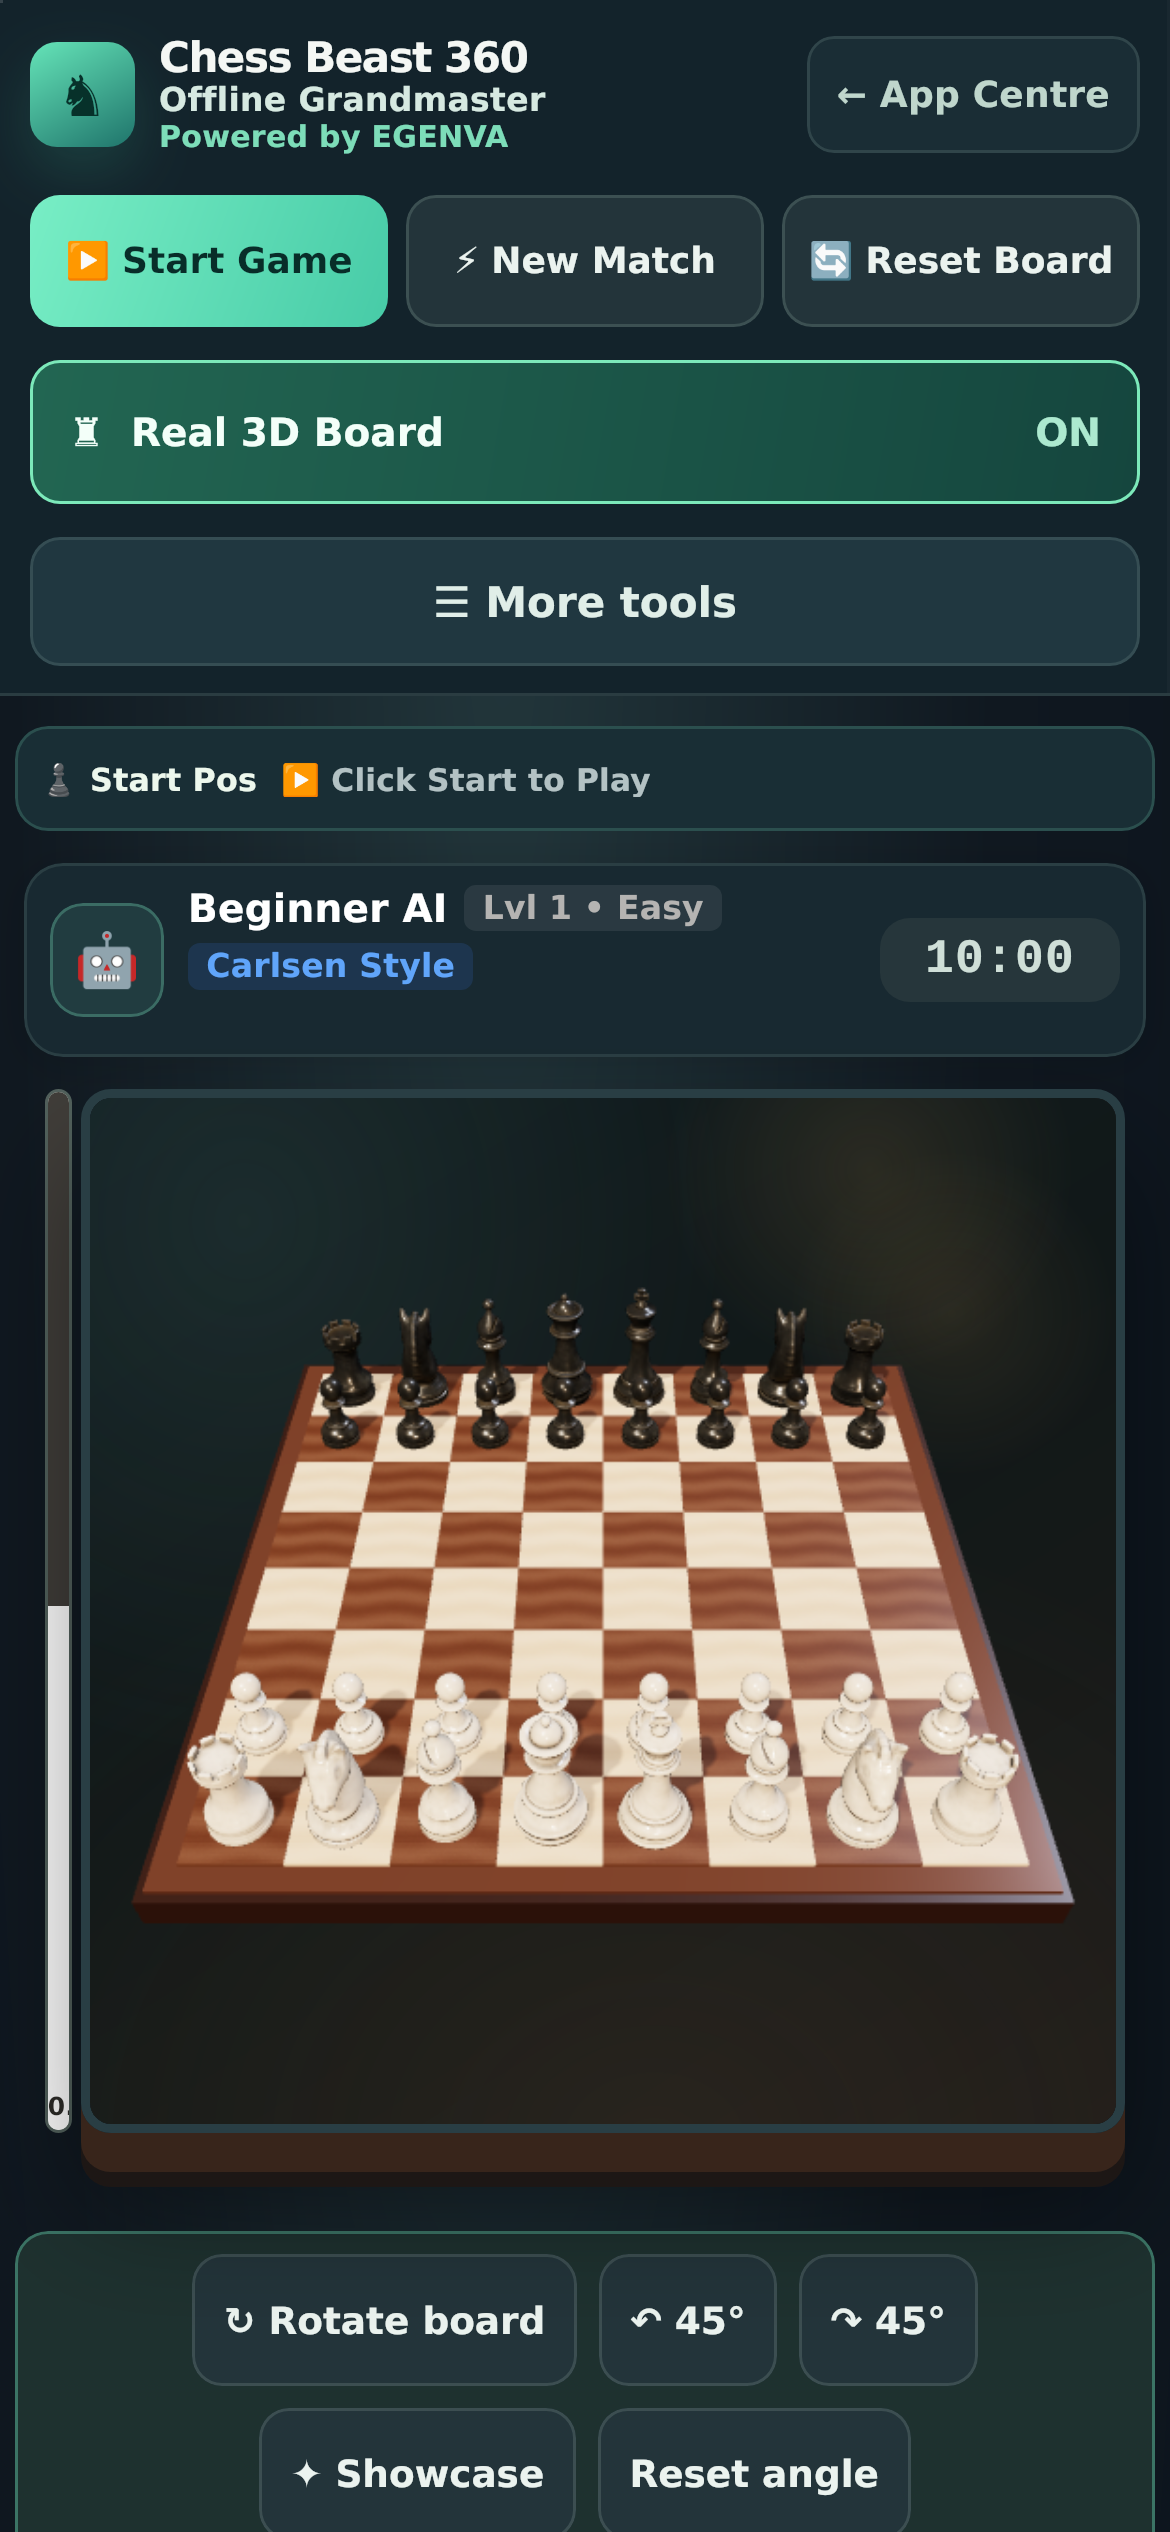
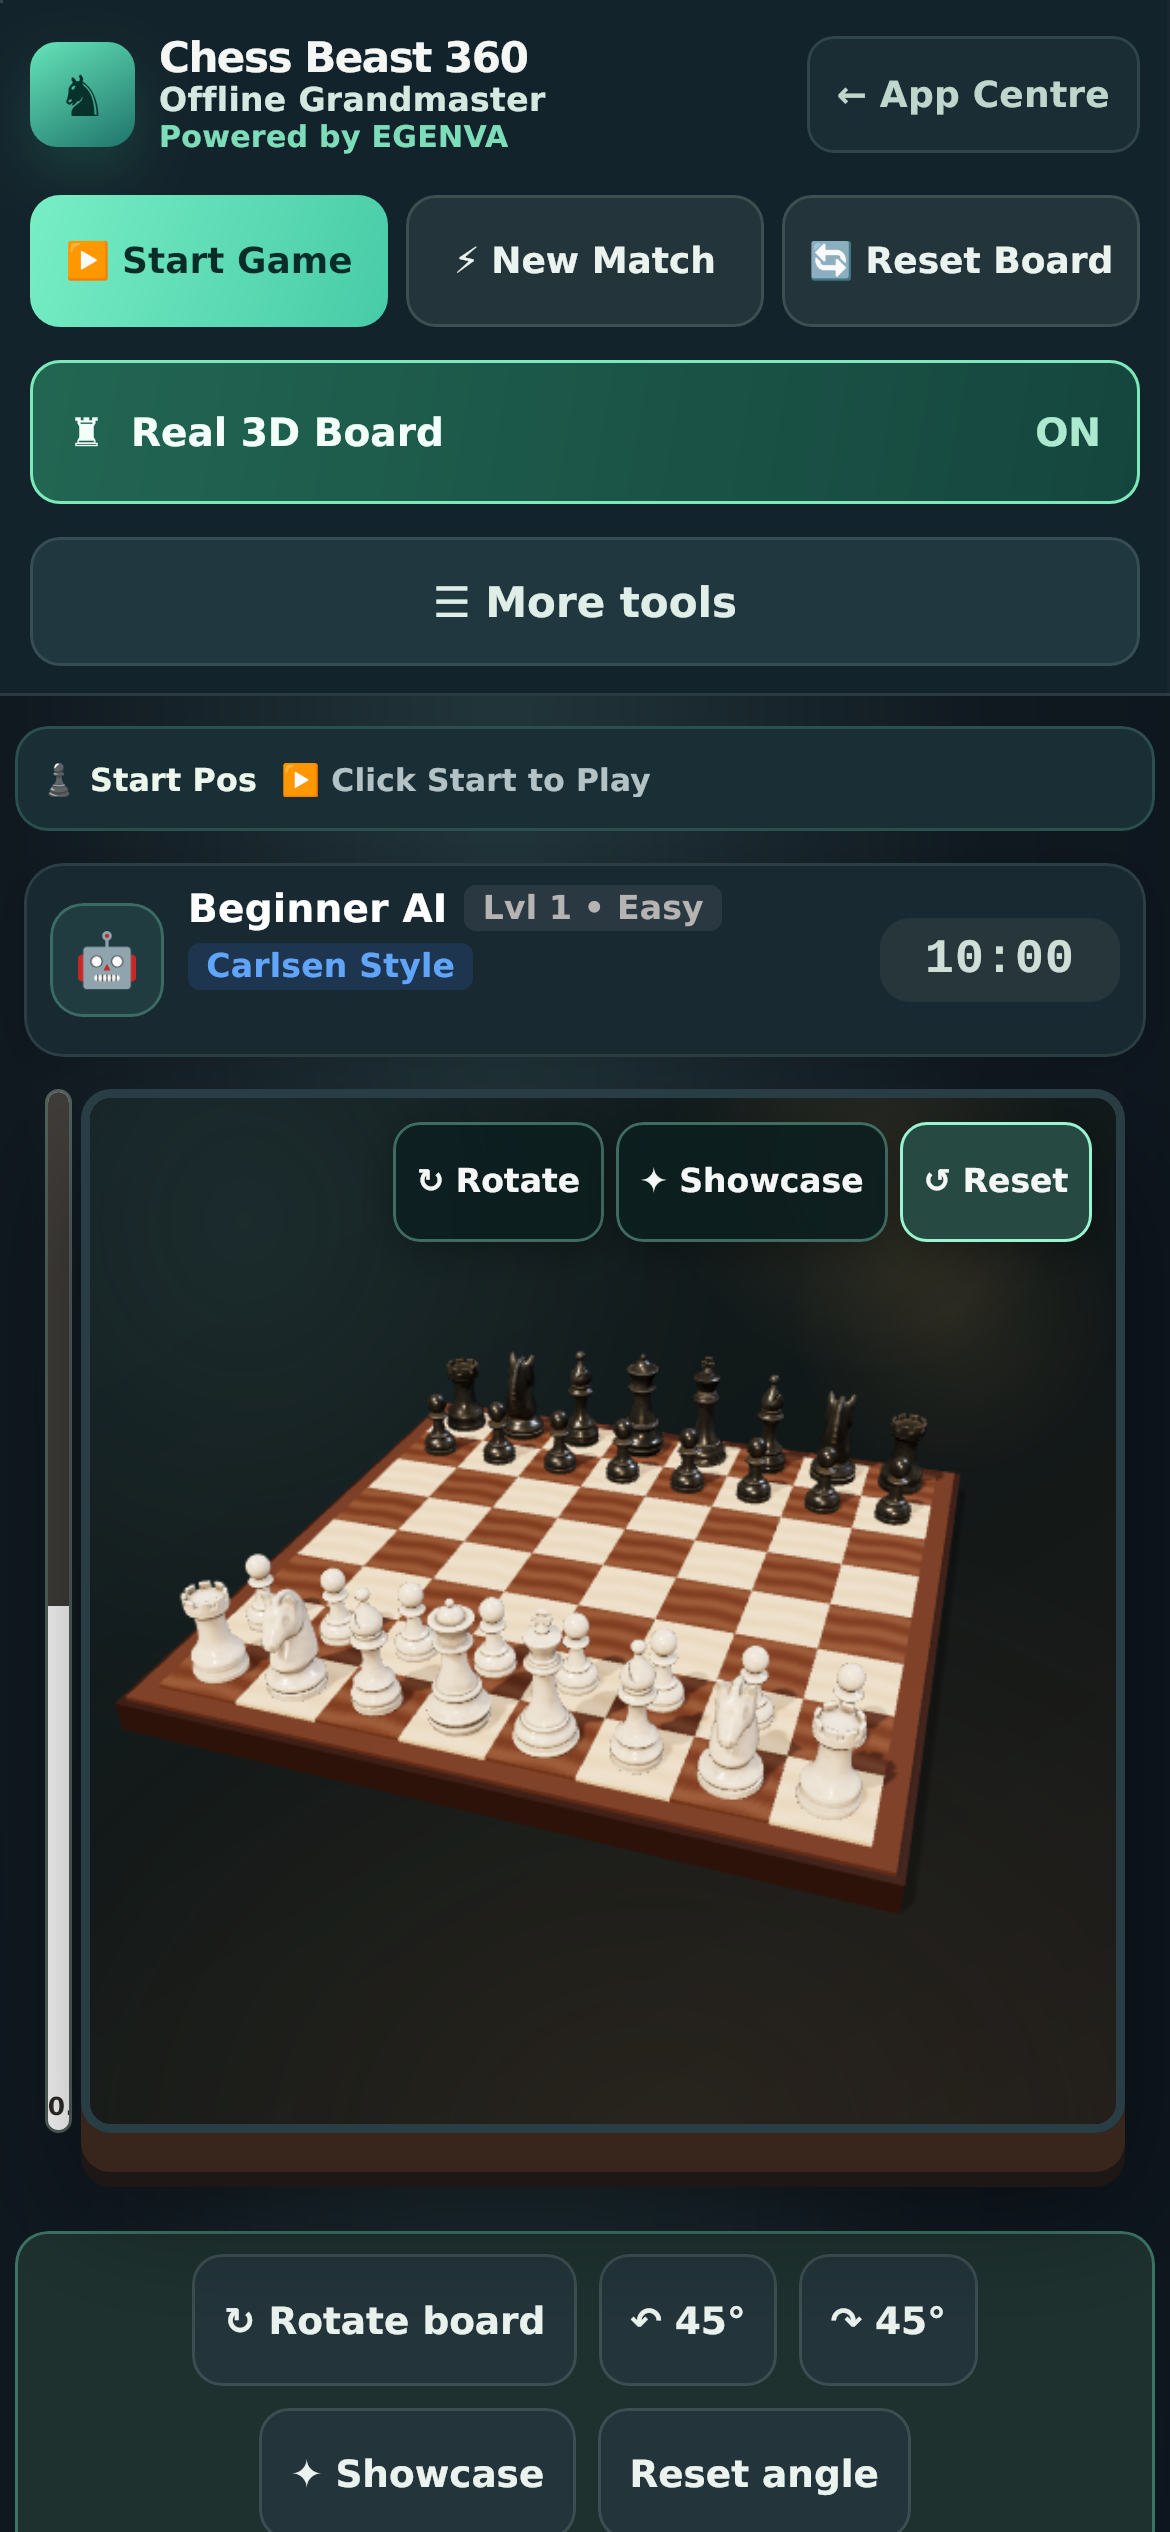
docs(chess): save actual rendered desktop/mobile 3D screenshot evidence

Changed region(s): [[0.0923, 0.4992, 0.9231, 0.78], [0.5846, 0.4368, 0.9538, 0.4992], [0.3692, 0.4368, 0.4923, 0.4992]]

diff --git a/docs/portfolio/chess-real-3d-images/README.md b/docs/portfolio/chess-real-3d-images/README.md
@@ -1,5 +1,6 @@
 # Chess Beast 360 — real 3D browser evidence
 Screenshots from ACTUAL playable Three.js PBR chess, not generated artwork.
-Workflow: https://github.com/venkatbangla-boop/vesahost/actions/runs/39145797620
-Source SHA: 5f023656f3fb3d89c6c51340bae2d27c262ec01f
+Workflow: https://github.com/venkatbangla-boop/vesahost/actions/runs/39148414546
+Source SHA: 6f5c7e0c4f041f7395fac1b7ad6e93eb96f0cace
+HUD images verify in-board Rotate / Showcase / Reset on 1440px desktop and 320px phone.
 Fictional cinematic reference remains a comparison target, not a pixel-match claim.
